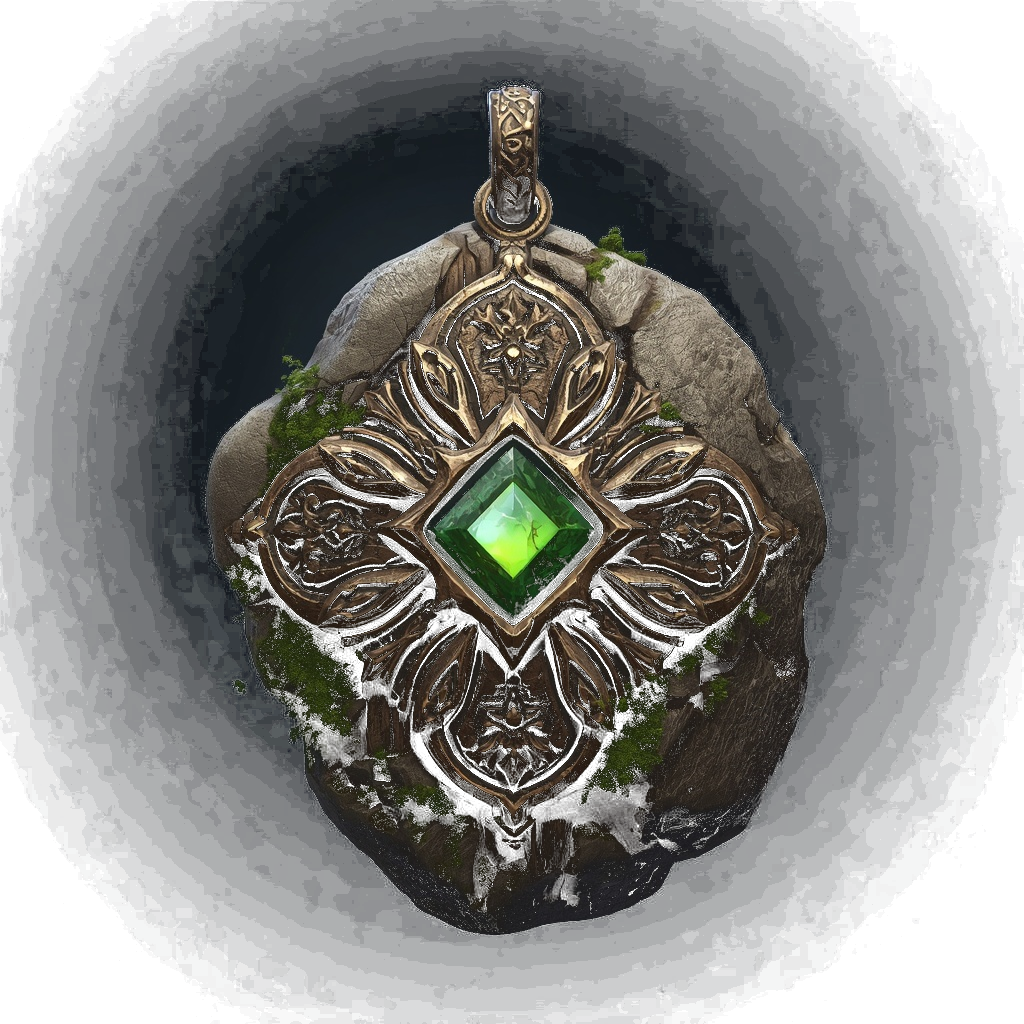
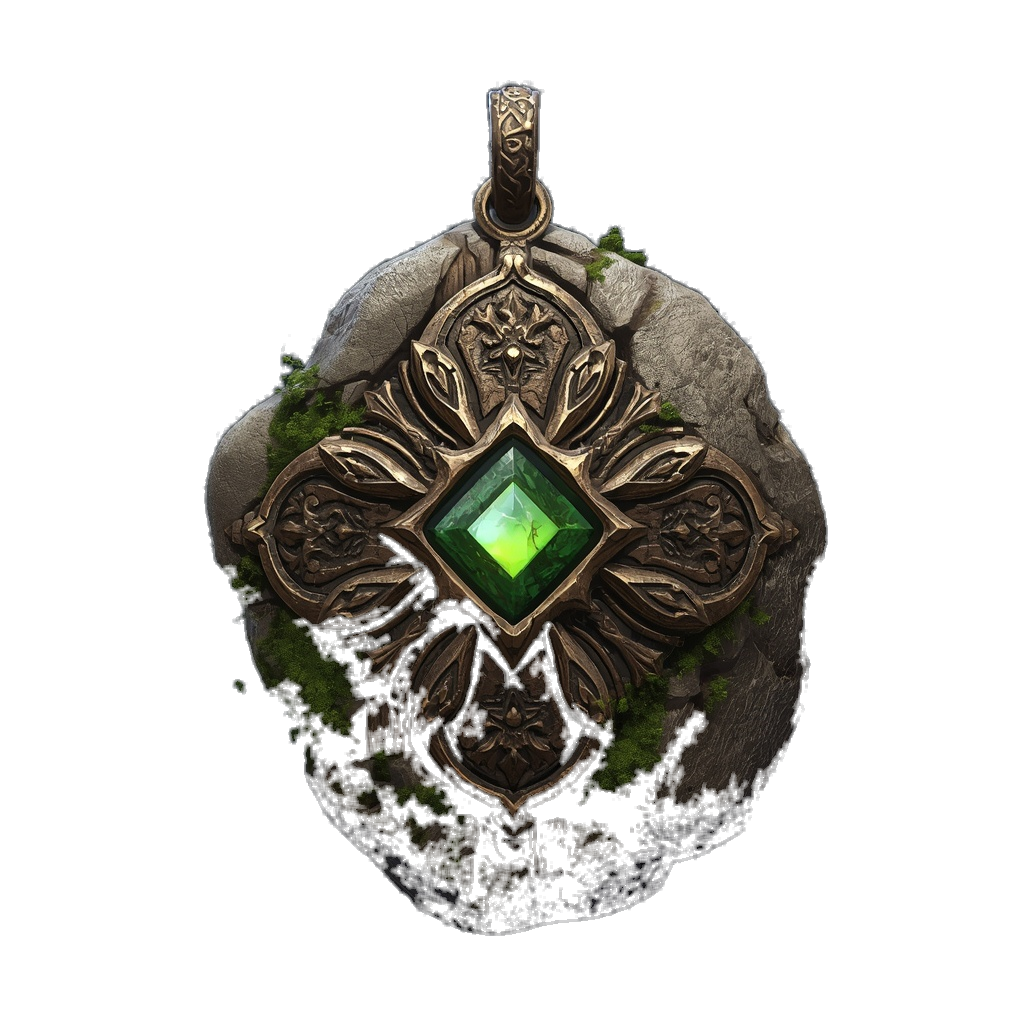
Give Hollow Sigil real, unique artwork; fix Mosswood Charm's transparency halo
Hollow Sigil now uses real, user-supplied art (an aged black metal ring
with a hollowed-out center and engraved markings) instead of the generic
Amulet icon, wired through the same visualAssetId -> registry -> ItemGlyph
pipeline built for Mosswood Charm - no new code needed.

Both source renders had an opaque near-black background, not real alpha.
The original color-distance matte used for Mosswood Charm left a faint
dark halo around the pendant (the checkerboard-composited preview that
was meant to catch this never actually loaded the image, so the defect
went unnoticed). Re-matted both with a gradient-tolerant flood fill from
the image borders instead - it follows the background's soft vignette
pixel by pixel and only stops at a real silhouette edge, so it cleanly
separates background from art even when both are similarly dark, without
eating into the item's own dark metal. Verified against a checkerboard and
against the actual in-game rarity-glow wrapper before landing.

Claude-Session: https://claude.ai/code/session_01C91ADC6eNqU2rUMH23Kfsu

diff --git a/src/ui/ItemGlyph.test.tsx b/src/ui/ItemGlyph.test.tsx
@@ -24,19 +24,19 @@ function render(itemDefinitionId: string, size?: number): { container: HTMLDivEl
  * hand-drawn category icon is the graceful fallback when it isn't (or the
  * file fails to load) — nothing ever renders broken or blank.
  *
- * mosswood_charm has real supplied artwork registered by default (see
- * itemAssets.ts); hollow_sigil is still honestly empty, so the
+ * mosswood_charm and hollow_sigil have real supplied artwork registered by
+ * default (see itemAssets.ts); wardens_eye is still honestly empty, so the
  * manually-injected-registry scenarios below use it to stay independent of
  * whether any given item currently has real art.
  */
 describe("ui/ItemGlyph — real-art vs fallback-icon contract", () => {
   afterEach(() => {
     // Never leak a test-only imageSrc into another test — the registry is a shared module singleton.
-    delete ITEM_VISUAL_ASSETS.hollow_sigil!.imageSrc;
+    delete ITEM_VISUAL_ASSETS.wardens_eye!.imageSrc;
   });
 
   it("renders the fallback hand-drawn icon (no <img>) for an item with no real art registered", () => {
-    const { container } = render("hollow_sigil");
+    const { container } = render("wardens_eye");
     expect(container.querySelector("img")).toBeNull();
     expect(container.querySelector("svg")).not.toBeNull();
   });
@@ -49,8 +49,7 @@ describe("ui/ItemGlyph — real-art vs fallback-icon contract", () => {
     expect(container.querySelector("svg")).toBeNull();
   });
 
-  it("renders real artwork via <img> once one is registered for any item's visualAssetId", () => {
-    ITEM_VISUAL_ASSETS.hollow_sigil!.imageSrc = "/items/amulets/hollow_sigil.png";
+  it("renders hollow_sigil's real supplied artwork via <img>, not the fallback icon", () => {
     const { container } = render("hollow_sigil");
     const img = container.querySelector("img");
     expect(img).not.toBeNull();
@@ -58,9 +57,18 @@ describe("ui/ItemGlyph — real-art vs fallback-icon contract", () => {
     expect(container.querySelector("svg")).toBeNull();
   });
 
+  it("renders real artwork via <img> once one is registered for any item's visualAssetId", () => {
+    ITEM_VISUAL_ASSETS.wardens_eye!.imageSrc = "/items/amulets/wardens_eye.png";
+    const { container } = render("wardens_eye");
+    const img = container.querySelector("img");
+    expect(img).not.toBeNull();
+    expect(img!.getAttribute("src")).toBe("/items/amulets/wardens_eye.png");
+    expect(container.querySelector("svg")).toBeNull();
+  });
+
   it("falls back to the hand-drawn icon if the registered image fails to load (404), never leaving a broken image", () => {
-    ITEM_VISUAL_ASSETS.hollow_sigil!.imageSrc = "/items/amulets/does-not-exist.png";
-    const { container } = render("hollow_sigil");
+    ITEM_VISUAL_ASSETS.wardens_eye!.imageSrc = "/items/amulets/does-not-exist.png";
+    const { container } = render("wardens_eye");
     const img = container.querySelector("img")!;
     act(() => img.dispatchEvent(new Event("error")));
     expect(container.querySelector("img")).toBeNull();
@@ -73,12 +81,12 @@ describe("ui/ItemGlyph — real-art vs fallback-icon contract", () => {
   });
 
   it("real art never bakes in a rarity color — the wrapper's rarity border/glow applies identically with or without registered art", () => {
-    const withoutArt = render("hollow_sigil", 48);
+    const withoutArt = render("wardens_eye", 48);
     const wrapperNoArt = withoutArt.container.firstElementChild as HTMLElement;
     const borderNoArt = wrapperNoArt.style.border;
 
-    ITEM_VISUAL_ASSETS.hollow_sigil!.imageSrc = "/items/amulets/hollow_sigil.png";
-    const withArt = render("hollow_sigil", 48);
+    ITEM_VISUAL_ASSETS.wardens_eye!.imageSrc = "/items/amulets/wardens_eye.png";
+    const withArt = render("wardens_eye", 48);
     const wrapperWithArt = withArt.container.firstElementChild as HTMLElement;
     expect(wrapperWithArt.style.border).toBe(borderNoArt);
   });

diff --git a/src/config/patchNotes.ts b/src/config/patchNotes.ts
@@ -70,6 +70,33 @@ export interface PatchNoteEntry {
 /** Newest first. */
 export const PATCH_NOTES: readonly PatchNoteEntry[] = [
   {
+    id: "v18",
+    dateIso: "2026-09-16",
+    category: "ITEMS",
+    title: {
+      en: "Hollow Sigil Gets Its Own Real Artwork",
+      ptBR: "Sigilo Oco Ganha Arte Própria Real",
+    },
+    description: {
+      en: "Hollow Sigil now shows its own real picture instead of the generic Amulet icon: an aged black metal ring with a hollowed-out, vacant center and engraved ancient markings — visually distinct from Mosswood Charm's pendant, exactly as its sinister, hollow theme describes. The same picture now appears everywhere the item shows up: Inventory, its tooltip, the item details view, and the Marketplace.",
+      ptBR: "O Sigilo Oco agora mostra sua própria imagem real em vez do ícone genérico de Amuleto: um anel de metal negro envelhecido com um centro vazio e oco, e marcações antigas gravadas — visualmente bem diferente do pingente do Amuleto do Bosque Musgoso, exatamente como seu tema sombrio e vazio sempre sugeriu. A mesma imagem agora aparece em todo lugar onde o item aparece: Inventário, tooltip, tela de detalhes do item e Marketplace.",
+    },
+    highlights: [
+      {
+        en: "Second item to use the per-item art pipeline introduced for Mosswood Charm — no new code was needed, just the artwork itself.",
+        ptBR: "Segundo item a usar o pipeline de arte por item introduzido com o Amuleto do Bosque Musgoso — não foi preciso nenhum código novo, só a arte em si.",
+      },
+      {
+        en: "Rarity presentation (the colored border and glow) is still applied by the interface around the artwork, never baked into the picture itself.",
+        ptBR: "A apresentação de raridade (borda e brilho coloridos) continua sendo aplicada pela interface ao redor da arte, nunca embutida na própria imagem.",
+      },
+      {
+        en: "Warden's Eye still uses the generic Amulet icon for now, until its own artwork is ready — nothing about its rarity, effects, or how it works has changed.",
+        ptBR: "Olho do Guardião ainda usa o ícone genérico de Amuleto por enquanto, até que sua própria arte fique pronta — nada sobre sua raridade, efeitos ou funcionamento mudou.",
+      },
+    ],
+  },
+  {
     id: "v17",
     dateIso: "2026-09-16",
     category: "ITEMS",

diff --git a/src/config/itemAssets.test.ts b/src/config/itemAssets.test.ts
@@ -5,11 +5,11 @@ import { ITEM_DEFINITIONS } from "./itemDefinitions";
 /**
  * IDENTIDADE VISUAL DEFINITIVA — the item -> real-art registry ItemGlyph
  * reads from. No image-generation tool exists in this environment, so no
- * entry is ever faked as "real art" — mosswood_charm's imageSrc below is
- * real artwork the user supplied directly (matted to transparency, see
- * itemAssets.ts's own comment); the still-empty entries are honestly
- * empty, not placeholders. See public/items/amulets/README.md for the
- * exact brief the remaining amulets need.
+ * entry is ever faked as "real art" — mosswood_charm's and hollow_sigil's
+ * imageSrc below are real artwork the user supplied directly (matted to
+ * transparency, see itemAssets.ts's own comment); the still-empty entries
+ * are honestly empty, not placeholders. See public/items/amulets/README.md
+ * for the exact brief wardens_eye still needs.
  */
 describe("itemAssets — ITEM_VISUAL_ASSETS registry", () => {
   it("has a registry entry for every real item in the catalog", () => {
@@ -26,9 +26,9 @@ describe("itemAssets — ITEM_VISUAL_ASSETS registry", () => {
     expect(getItemVisualAsset("mosswood_charm")).toBe(ITEM_VISUAL_ASSETS.mosswood_charm);
   });
 
-  it("mosswood_charm has real supplied artwork; hollow_sigil and wardens_eye are still honestly empty (no image-generation tool available for those)", () => {
+  it("mosswood_charm and hollow_sigil have real supplied artwork; wardens_eye is still honestly empty (no image-generation tool available for it)", () => {
     expect(getItemVisualAsset("mosswood_charm").imageSrc).toBe("/items/amulets/mosswood_charm.png");
-    expect(getItemVisualAsset("hollow_sigil").imageSrc).toBeUndefined();
+    expect(getItemVisualAsset("hollow_sigil").imageSrc).toBe("/items/amulets/hollow_sigil.png");
     expect(getItemVisualAsset("wardens_eye").imageSrc).toBeUndefined();
   });
 });

diff --git a/src/config/itemAssets.ts b/src/config/itemAssets.ts
@@ -50,14 +50,14 @@ export interface ItemVisualAsset {
 
 export const ITEM_VISUAL_ASSETS: Record<string, ItemVisualAsset> = {
   warden_fragment: {},
-  // AMULETOS — IDENTIDADE VISUAL DEFINITIVA. mosswood_charm's real artwork
-  // was supplied by the user and matted to a transparent background (the
-  // source render had an opaque near-black backdrop baked in, not real
-  // alpha) before landing here — see public/items/amulets/README.md for
-  // the brief the remaining two (hollow_sigil, wardens_eye) still need.
+  // AMULETOS — IDENTIDADE VISUAL DEFINITIVA. Both of these were supplied by
+  // the user and matted to a transparent background (the source renders had
+  // an opaque near-black backdrop baked in, not real alpha) before landing
+  // here — see public/items/amulets/README.md for the brief wardens_eye
+  // still needs, and public/items/artifacts/README.md for the MYTHIC item.
   mosswood_charm: { imageSrc: "/items/amulets/mosswood_charm.png" },
   ancient_core: {},
-  hollow_sigil: {},
+  hollow_sigil: { imageSrc: "/items/amulets/hollow_sigil.png" },
   wardens_eye: {},
   crown_of_the_hollow_king: {},
 };

diff --git a/public/items/amulets/README.md b/public/items/amulets/README.md
@@ -1,10 +1,12 @@
 # Item art — amulets
 
-This folder is where the 3 amulets' real artwork goes once it exists. No
-image-generation tool is available in the development environment this was
-built in, so these files have **not** been generated — this is the empty,
-ready-to-receive slot the code already points at (see
-`src/config/itemAssets.ts`), not a placeholder standing in as real art.
+This folder holds the amulets' real artwork. `mosswood_charm.png` and
+`hollow_sigil.png` are real, user-supplied art already wired up (see
+`src/config/itemAssets.ts`); `wardens_eye.png` is still the empty,
+ready-to-receive slot the code already points at — no image-generation
+tool is available in the development environment this was built in, so
+that file has **not** been generated, and is not a placeholder standing in
+as real art.
 
 Drop each file here with **exactly** this name, then set the matching
 `imageSrc` in `src/config/itemAssets.ts` (e.g.
